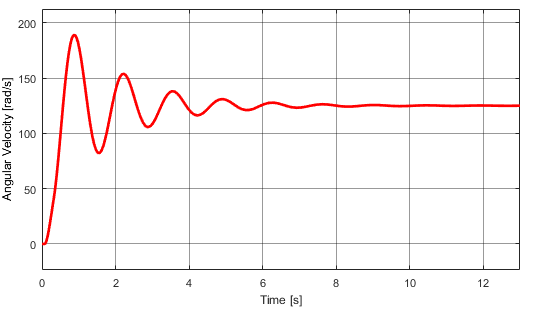
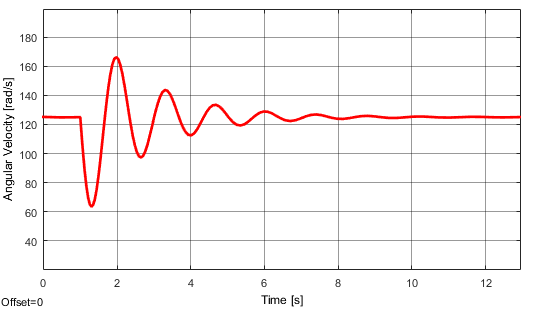
added some figs and changed some stuff

diff --git a/report/sections/simulation.tex b/report/sections/simulation.tex
@@ -20,22 +20,7 @@ Before the controllers can be tested on the real system a simulation must be don
 
 
 
-\begin{figure}[h!]
-	\centering
-	\begin{subfigure}[b]{0.45\textwidth}
-		\includegraphics[width=\textwidth]{graphics/PI_load125}
-		\caption{PI Speed control at 125 rad/s}
-		\label{fig:piload125}
-	\end{subfigure}
-	~ %add desired spacing between images, e. g. ~, \quad, \qquad, \hfill etc. 
-	%(or a blank line to force the subfigure onto a new line)
-	\begin{subfigure}[b]{0.45\textwidth}
-		\includegraphics[width=\textwidth]{graphics/PI_load200}
-		\caption{PI Speed control at 200 rad/s}
-		\label{fig:piload200}
-	\end{subfigure}
-	\caption{The PI controller at two different angular velocities with added load. Desired settling time is not reached. Instead it introduces a overshoot and does not become stable until close to 1s}\label{fig:piload}
-\end{figure}
+
 
 
 \begin{figure}[h!]
@@ -55,6 +40,28 @@ Before the controllers can be tested on the real system a simulation must be don
 	\caption{The PI controller at two different angular velocities. A delay is introduced. The desired settling time is reached from when the controller responses.}\label{fig:ipdsingle}
 \end{figure}
 
+
+
+The simulation confirms that the controllers behave similar for both simulated angular velocities as seen in figures~\ref{fig:pisingle} and~\ref{fig:ipdsingle}. The settling time reaches the desired value for both PI and IPD. However an unexplained delay is introduced in the beginning og the IPD controller response. That delay does not affect the system response in other way than offsetting it.
+
+\begin{figure}[h!]
+	\centering
+	\begin{subfigure}[b]{0.45\textwidth}
+		\includegraphics[width=\textwidth]{graphics/PI_load125}
+		\caption{PI Speed control at 125 rad/s}
+		\label{fig:piload125}
+	\end{subfigure}
+	~ %add desired spacing between images, e. g. ~, \quad, \qquad, \hfill etc. 
+	%(or a blank line to force the subfigure onto a new line)
+	\begin{subfigure}[b]{0.45\textwidth}
+		\includegraphics[width=\textwidth]{graphics/PI_load200}
+		\caption{PI Speed control at 200 rad/s}
+		\label{fig:piload200}
+	\end{subfigure}
+	\caption{The PI controller at two different angular velocities with added load. Desired settling time is not reached. Instead it introduces a overshoot and does not become stable until close to 1s}
+	\label{fig:piload}
+\end{figure}
+
 \begin{figure}[h!]
 	\centering
 	\begin{subfigure}[b]{0.45\textwidth}
@@ -69,8 +76,9 @@ Before the controllers can be tested on the real system a simulation must be don
 		\caption{IPD Speed control at 200 rad/s}
 		\label{fig:ipdload200}
 	\end{subfigure}
-	\caption{The PI controller at two different angular velocities with added load. The desired settling time is far from being reached. The system becomes stable at around 12s}\label{fig:ipdload}
+	\caption{The PI controller at two different angular velocities with added load. The desired settling time is far from being reached. The system becomes stable at around 13s}
+	\label{fig:ipdload}
 \end{figure}
 
-The simulation confirms that the controllers behave similar for both angular velocities as seen in figures~\ref{fig:pisingle} and~\ref{fig:ipdsingle}. However when load is added, the controllers seem to have a hard time on settling, Figure~\ref{fig:piload} and~\ref{fig:ipdload}. this result was expected thus the controllers were designed with only single motor in mind. Added load changes the system behavior and should be controlled with different controller gains.\todo{why delay??}
-
+When the system has reached the stable output a load step is introduced.
+When the load step is added, the IPD controller seems to have a hard time on settling, Figure~\ref{fig:ipdload}. The systems does not reach the stable condition until after 13s. This result could have been estimated thus the controllers were designed with only single motor in mind. Added load changes the system behavior and should be controlled with different controller gains.

diff --git a/report/sections/controller.tex b/report/sections/controller.tex
@@ -144,7 +144,7 @@ One major disadvantage of implementing such a strategy is that the settling time
 
 
 \subsection{Controller Gain Design}
-The controller gains are then to be designed. To achieve that the settling time method will be introduced~\cite{feedback}.
+The controller gains are then to be designed. To achieve that the settling time method will be introduced.
 
 
 \subsubsection{Settling Time Formula}
